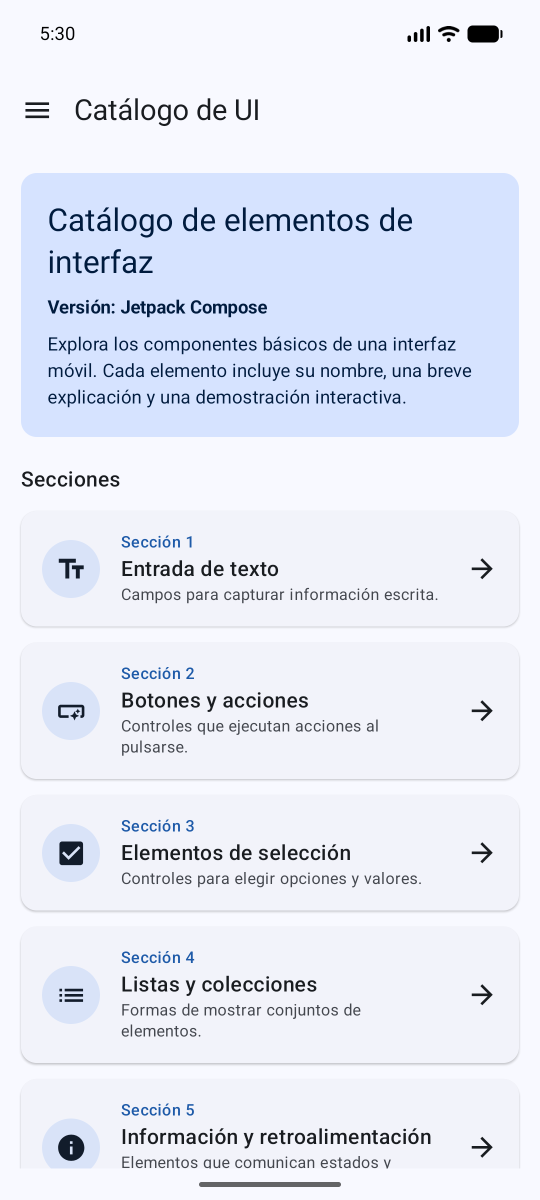
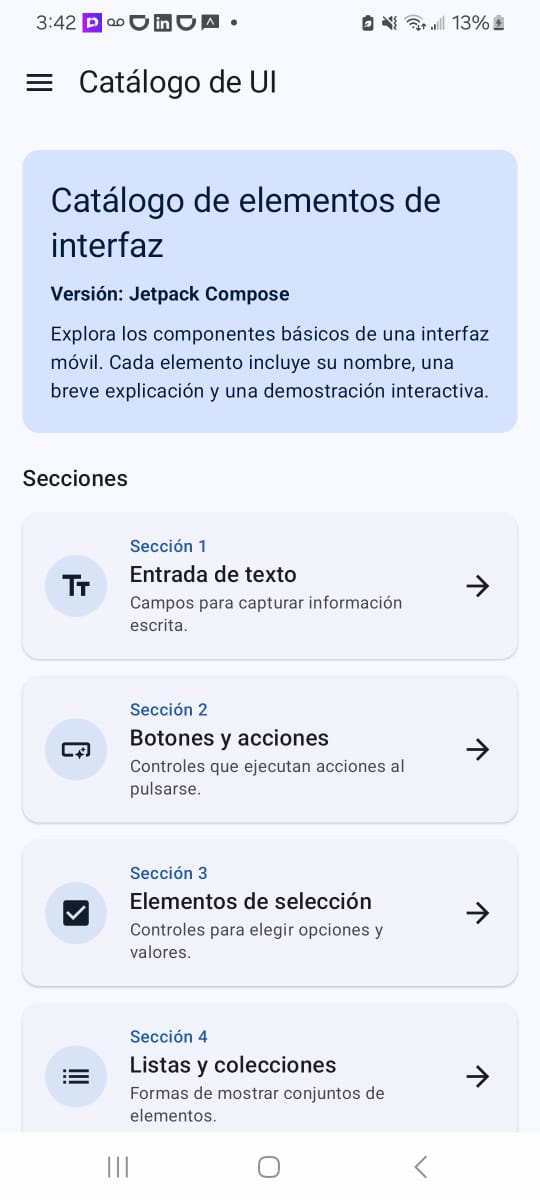
Capturas tomadas en dispositivo físico (Galaxy S21 Ultra)

diff --git a/README.md b/README.md
@@ -194,7 +194,7 @@ Componente principal usado para cada elemento del catálogo en cada tecnología.
 
 ## Capturas de pantalla
 
-Todas las capturas se tomaron de los APK de release incluidos en `apks/`, en un emulador Pixel 7 con Android 17.
+Todas las capturas se tomaron de los APK de release incluidos en `apks/`, instalados en un Samsung Galaxy S21 Ultra.
 
 ### Pantalla principal
 
